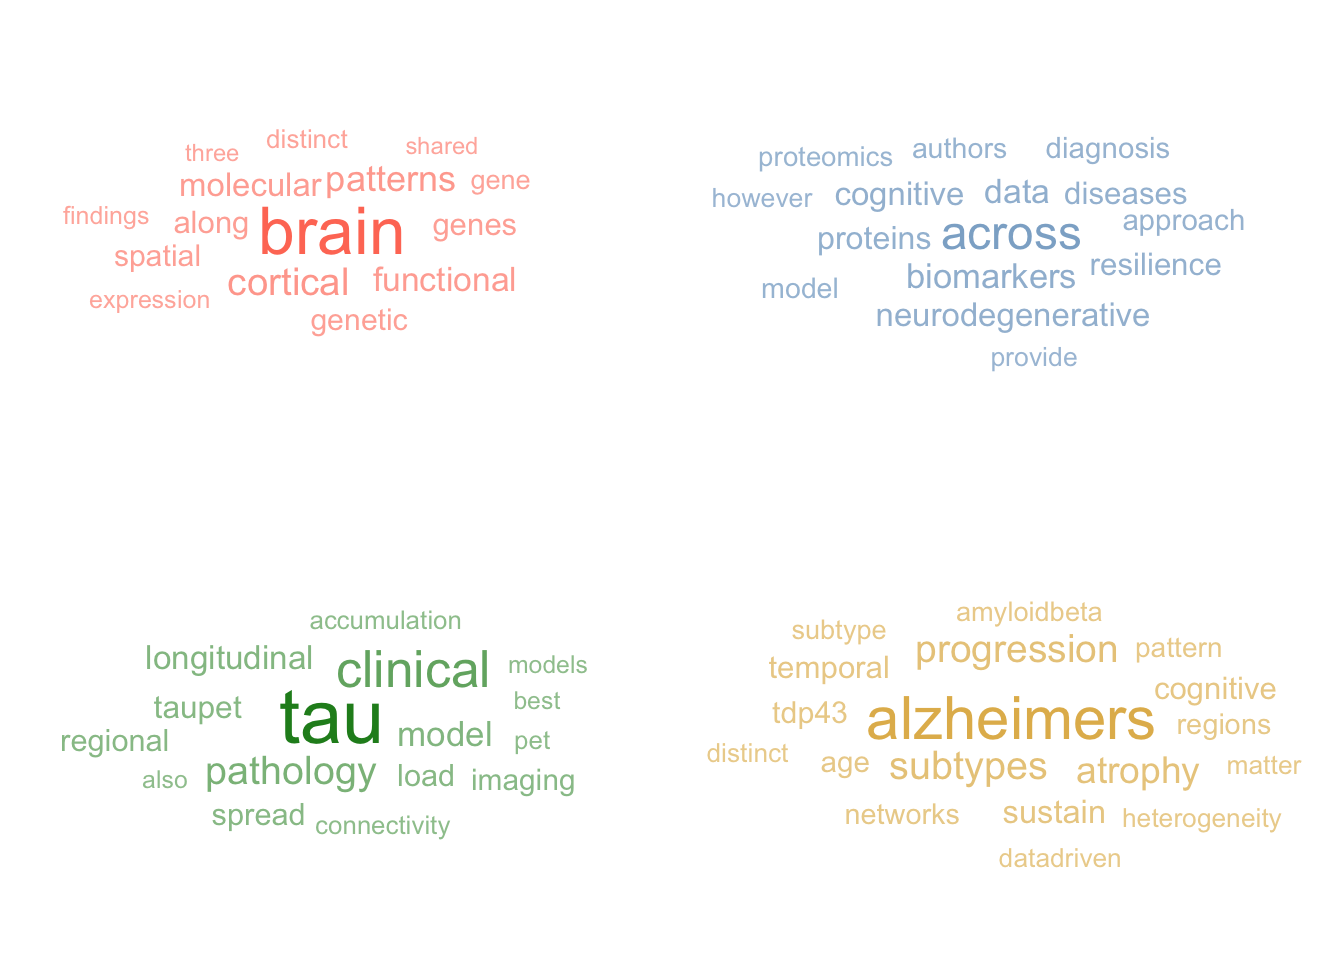
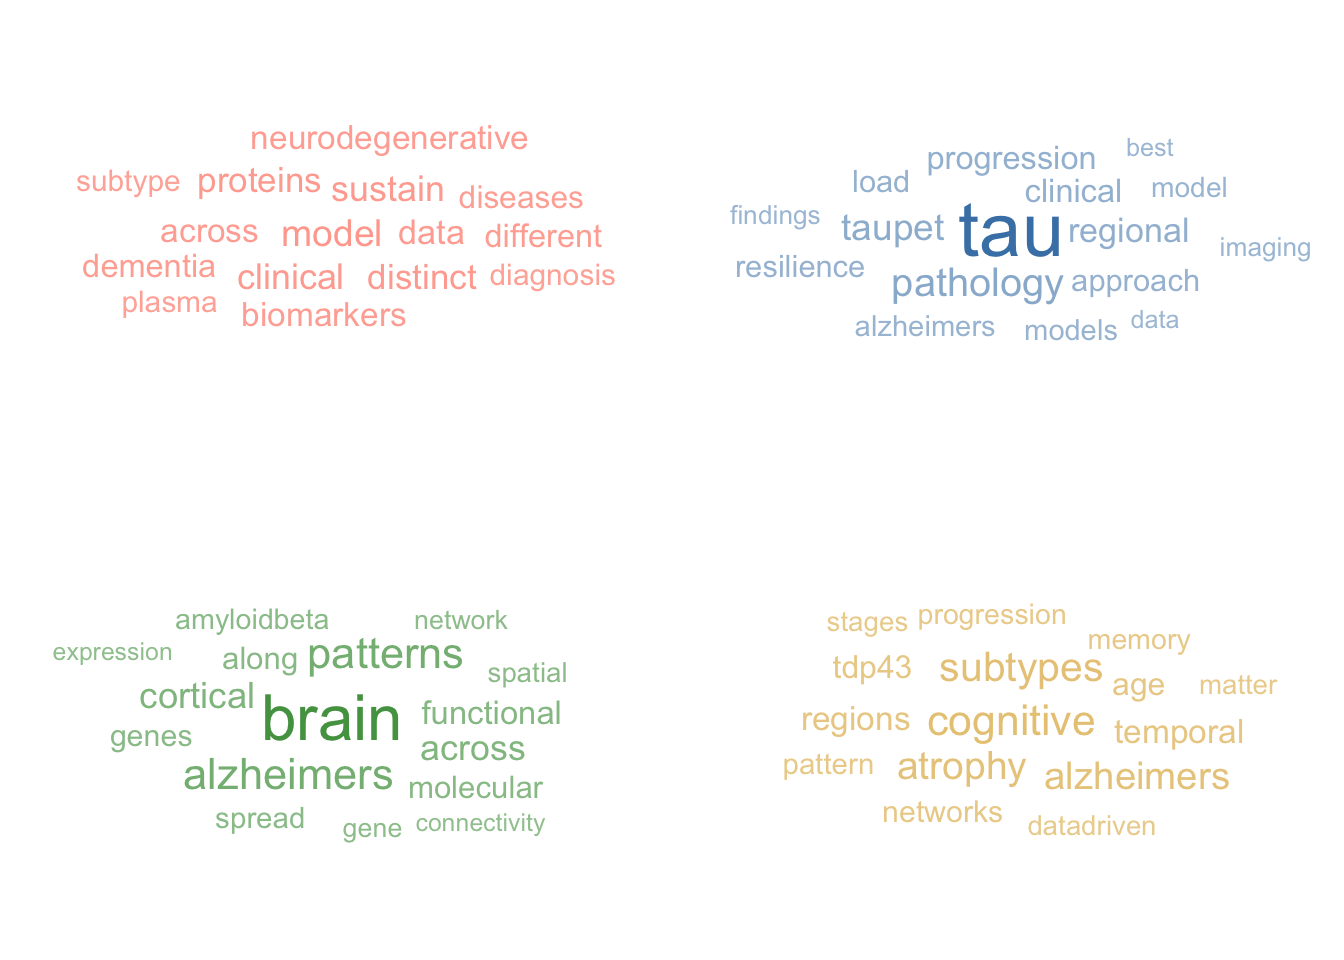
update group picture

diff --git a/_site/members.html b/_site/members.html
@@ -468,7 +468,7 @@ window.Quarto = {
 
 
 <div class="members-page">
-<p><img src="members/images/GroupPhotoV1.jpg" class="img-fluid"></p>
+<p><img src="members/images/group_050626.jpg" class="img-fluid"></p>
 <hr>
 <section id="principal-investigator" class="level2">
 <h2 class="anchored" data-anchor-id="principal-investigator">Principal Investigator</h2>